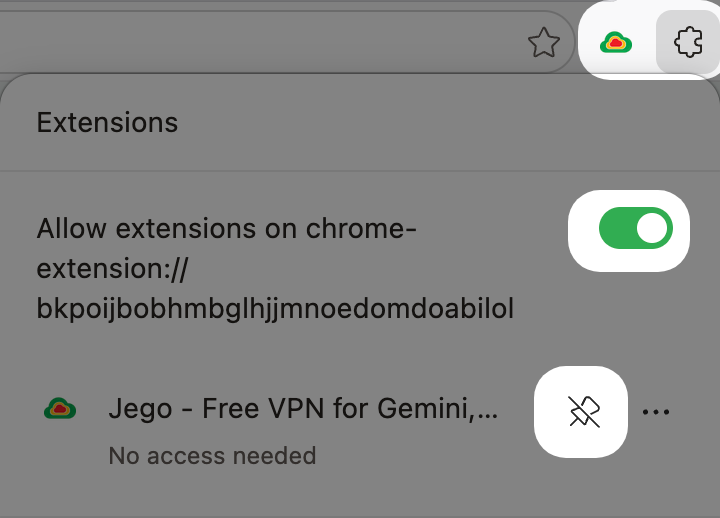
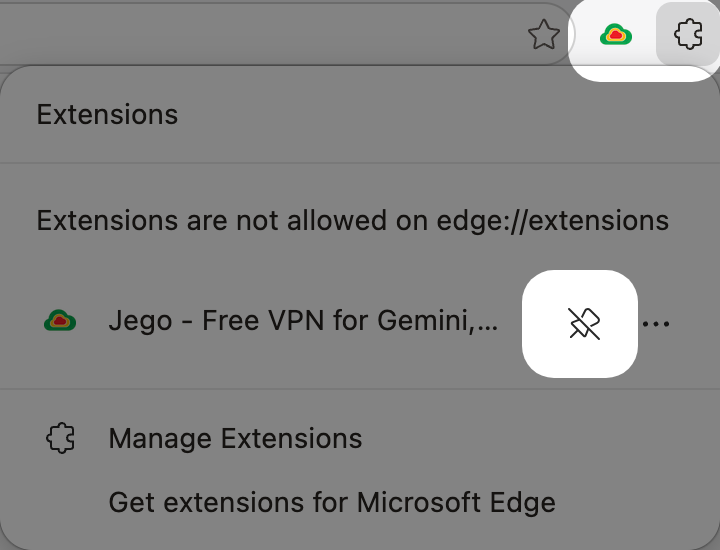
Update Edge pinning instructions

diff --git a/docs/en/guide/installation.md b/docs/en/guide/installation.md
@@ -66,7 +66,7 @@ First go to the Jego official website: [https://www.jegocloud.com/](https://jego
 
 | Edge Browser Initial Settings | Chrome Browser Initial Settings |
 | --- | --- |
-| <ul><li>Open Edge browser.</li><li>Click the menu button in the upper right corner (three horizontal dots).</li><li>Click "Extensions".</li><li>Find the "Jego" extension and ensure it's enabled.</li><li>Ensure the pin icon on the right side of the "Jego" extension is in the pinned state.</li><li>This way, you can see the small "Jego" icon on the far right of the browser address bar for convenient daily use.</li></ul> | <ul><li>Open Chrome browser.</li><li>Click the menu button in the upper right corner (three vertical dots).</li><li>Click "Extensions -> Manage Extensions".</li><li>Find the "Jego" extension and ensure it's enabled.</li><li>Ensure the pin icon on the right side of the "Jego" extension is in blue selected mode.</li><li>This way, you can see the small "Jego" icon on the far right of the browser address bar for convenient daily use.</li></ul> |
+| <ul><li>Open Edge browser.</li><li>Click the Extensions icon in the upper right corner to open the extensions list.</li><li>Find the "Jego" extension.</li><li>Click the pin icon on the right side of the "Jego" extension to pin it to the toolbar.</li><li>This way, you can see the small "Jego" icon on the far right of the browser address bar for convenient daily use.</li></ul> | <ul><li>Open Chrome browser.</li><li>Click the menu button in the upper right corner (three vertical dots).</li><li>Click "Extensions -> Manage Extensions".</li><li>Find the "Jego" extension and ensure it's enabled.</li><li>Ensure the pin icon on the right side of the "Jego" extension is in blue selected mode.</li><li>This way, you can see the small "Jego" icon on the far right of the browser address bar for convenient daily use.</li></ul> |
 | <img src="/images/image_spaces_2FtaiByLw8cj0IZKJTlaiM_2Fuploads_2Fg4tbKt6AKXlmq4DaA3H6_2Fimage_3.png" alt="Edge settings interface"> | <img src="/images/image_spaces_2FtaiByLw8cj0IZKJTlaiM_2Fuploads_2FGzs5DCiSzki2ZpCWTW3Z_2Fimage_1.png" alt="Chrome settings interface"> |
 
 ## How to Install Jego on Other Browsers
